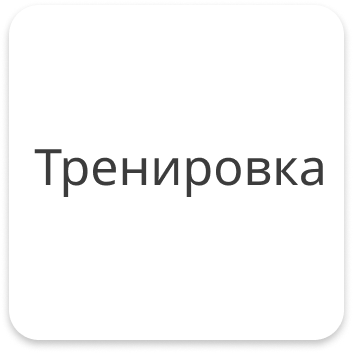
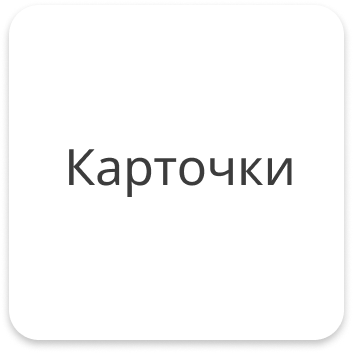
новый контейнер карточек

Changed region(s): [[0.0935, 0.4051, 0.9348, 0.5609]]

diff --git a/cards.html b/cards.html
@@ -11,14 +11,24 @@
             src: url('coockierun.ttf') format('truetype');
         }
 
-        /* Контейнер для игры */
+        /* Новый контейнер для игры */
         #game-container {
-            display: flex;
-            justify-content: center;
-            align-items: center;
-            flex-direction: column;
-            height: 80vh;
-        }
+    display: flex;
+    justify-content: center;
+    align-items: center;
+    flex-direction: column;
+    text-align: center;
+    background-color: white;
+    padding: 20px;
+    border-radius: 10px;
+    box-shadow: 0 4px 8px rgba(0, 0, 0, 0.1);
+    position: relative;
+    width: 90vw;
+    height: 90vh;
+    margin: auto;
+    max-width: 500px;
+    max-height: 900px;
+}
 
         /* Контейнер для карточек и стрелок */
         #card-nav-container {
@@ -36,8 +46,8 @@
 
         /* Ваши стили для карточек */
         .card {
-            width: 200px;
-            height: 300px;
+            width: 300px;
+            height: 500px;
             perspective: 1000px;
             margin: 0 auto;
             opacity: 1;
@@ -94,15 +104,18 @@
     </style>
 </head>
 <body>
-    <div id="game-container">
-        <!-- Контейнер для карточек и стрелок -->
-        <div id="card-nav-container">
-            <div class="nav-arrow" id="prev-arrow">&#9664;</div>
-            <div id="card-container"></div>
-            <div class="nav-arrow" id="next-arrow">&#9654;</div>
+    <!-- Новый контейнер для игры -->
+    <div id="gameContainer">
+        <div id="game-container">
+            <!-- Контейнер для карточек и стрелок -->
+            <div id="card-nav-container">
+                <div class="nav-arrow" id="prev-arrow">&#9664;</div>
+                <div id="card-container"></div>
+                <div class="nav-arrow" id="next-arrow">&#9654;</div>
+            </div>
+            <!-- Кнопка звука -->
+            <img src="sound_on.png" id="sound-button" alt="Включить звук" />
         </div>
-        <!-- Кнопка звука -->
-        <img src="sound_on.png" id="sound-button" alt="Включить звук" />
     </div>
     
     <script>
@@ -133,11 +146,20 @@
                 })
                 .then(data => {
                     cardsData = data;
+                    shuffleArray(cardsData); // Перемешиваем карточки
                     createCard(cardsData[currentCardIndex]);
                     playSound(cardsData[currentCardIndex].audio); // Play sound for the first card
                 })
                 .catch(error => console.error('Ошибка загрузки JSON:', error));
         });
+
+        // Функция для случайного перемешивания массива
+        function shuffleArray(array) {
+            for (let i = array.length - 1; i > 0; i--) {
+                const j = Math.floor(Math.random() * (i + 1));
+                [array[i], array[j]] = [array[j], array[i]];
+            }
+        }
 
         function createCard(cardData) {
             const container = document.getElementById('card-container');
@@ -247,7 +269,7 @@
             }
         });
 
-        // Touch event handlers
+        // Обработчики событий для свайпа
         function handleTouchStart(event) {
             startX = event.touches[0].clientX;
         }
@@ -255,45 +277,45 @@
         function handleTouchEnd(event) {
             endX = event.changedTouches[0].clientX;
             if (startX > endX + 30) {
-                // Swipe left
+                // Свайп влево
                 showNextCard();
             } else if (startX < endX - 30) {
-                // Swipe right
+                // Свайп вправо
                 showPreviousCard();
             }
         }
 
-        // Show the next card
+        // Показать следующую карточку
         function showNextCard() {
             if (currentCardIndex < cardsData.length - 1) {
                 const currentCard = document.querySelector('.card');
-                currentCard.style.opacity = 0; // Fade out the current card
+                currentCard.style.opacity = 0; // Плавное исчезновение текущей карточки
                 setTimeout(() => {
                     currentCardIndex++;
                     createCard(cardsData[currentCardIndex]);
-                    playSound(cardsData[currentCardIndex].audio); // Play sound for the new card
+                    playSound(cardsData[currentCardIndex].audio); // Проиграть звук для новой карточки
                     const newCard = document.querySelector('.card');
-                    newCard.style.opacity = 0; // Set the new card to invisible
+                    newCard.style.opacity = 0; // Установить новую карточку невидимой
                     setTimeout(() => {
-                        newCard.style.opacity = 1; // Fade in the new card
+                        newCard.style.opacity = 1; // Плавное появление новой карточки
                     }, 50);
                 }, 500);
             }
         }
 
-        // Show the previous card
+        // Показать предыдущую карточку
         function showPreviousCard() {
             if (currentCardIndex > 0) {
                 const currentCard = document.querySelector('.card');
-                currentCard.style.opacity = 0; // Fade out the current card
+                currentCard.style.opacity = 0; // Плавное исчезновение текущей карточки
                 setTimeout(() => {
                     currentCardIndex--;
                     createCard(cardsData[currentCardIndex]);
-                    playSound(cardsData[currentCardIndex].audio); // Play sound for the new card
+                    playSound(cardsData[currentCardIndex].audio); // Проиграть звук для новой карточки
                     const newCard = document.querySelector('.card');
-                    newCard.style.opacity = 0; // Set the new card to invisible
+                    newCard.style.opacity = 0; // Установить новую карточку невидимой
                     setTimeout(() => {
-                        newCard.style.opacity = 1; // Fade in the new card
+                        newCard.style.opacity = 1; // Плавное появление новой карточки
                     }, 50);
                 }, 500);
             }

diff --git a/index.html b/index.html
@@ -89,7 +89,7 @@
             <div class="buttonsRow">
                 <!-- Вторая строка кнопок -->
                 <img src="button3.png" alt="По картинкам" class="startButton" onclick="startGame('pictures')">
-                <img src="button4.png" alt="Тренировка" class="startButton" onclick="startGame('training')">
+                <img src="button4.png" alt="Карточки" class="startButton" onclick="startGame('training')">
             </div>
         </div>
     </div>
